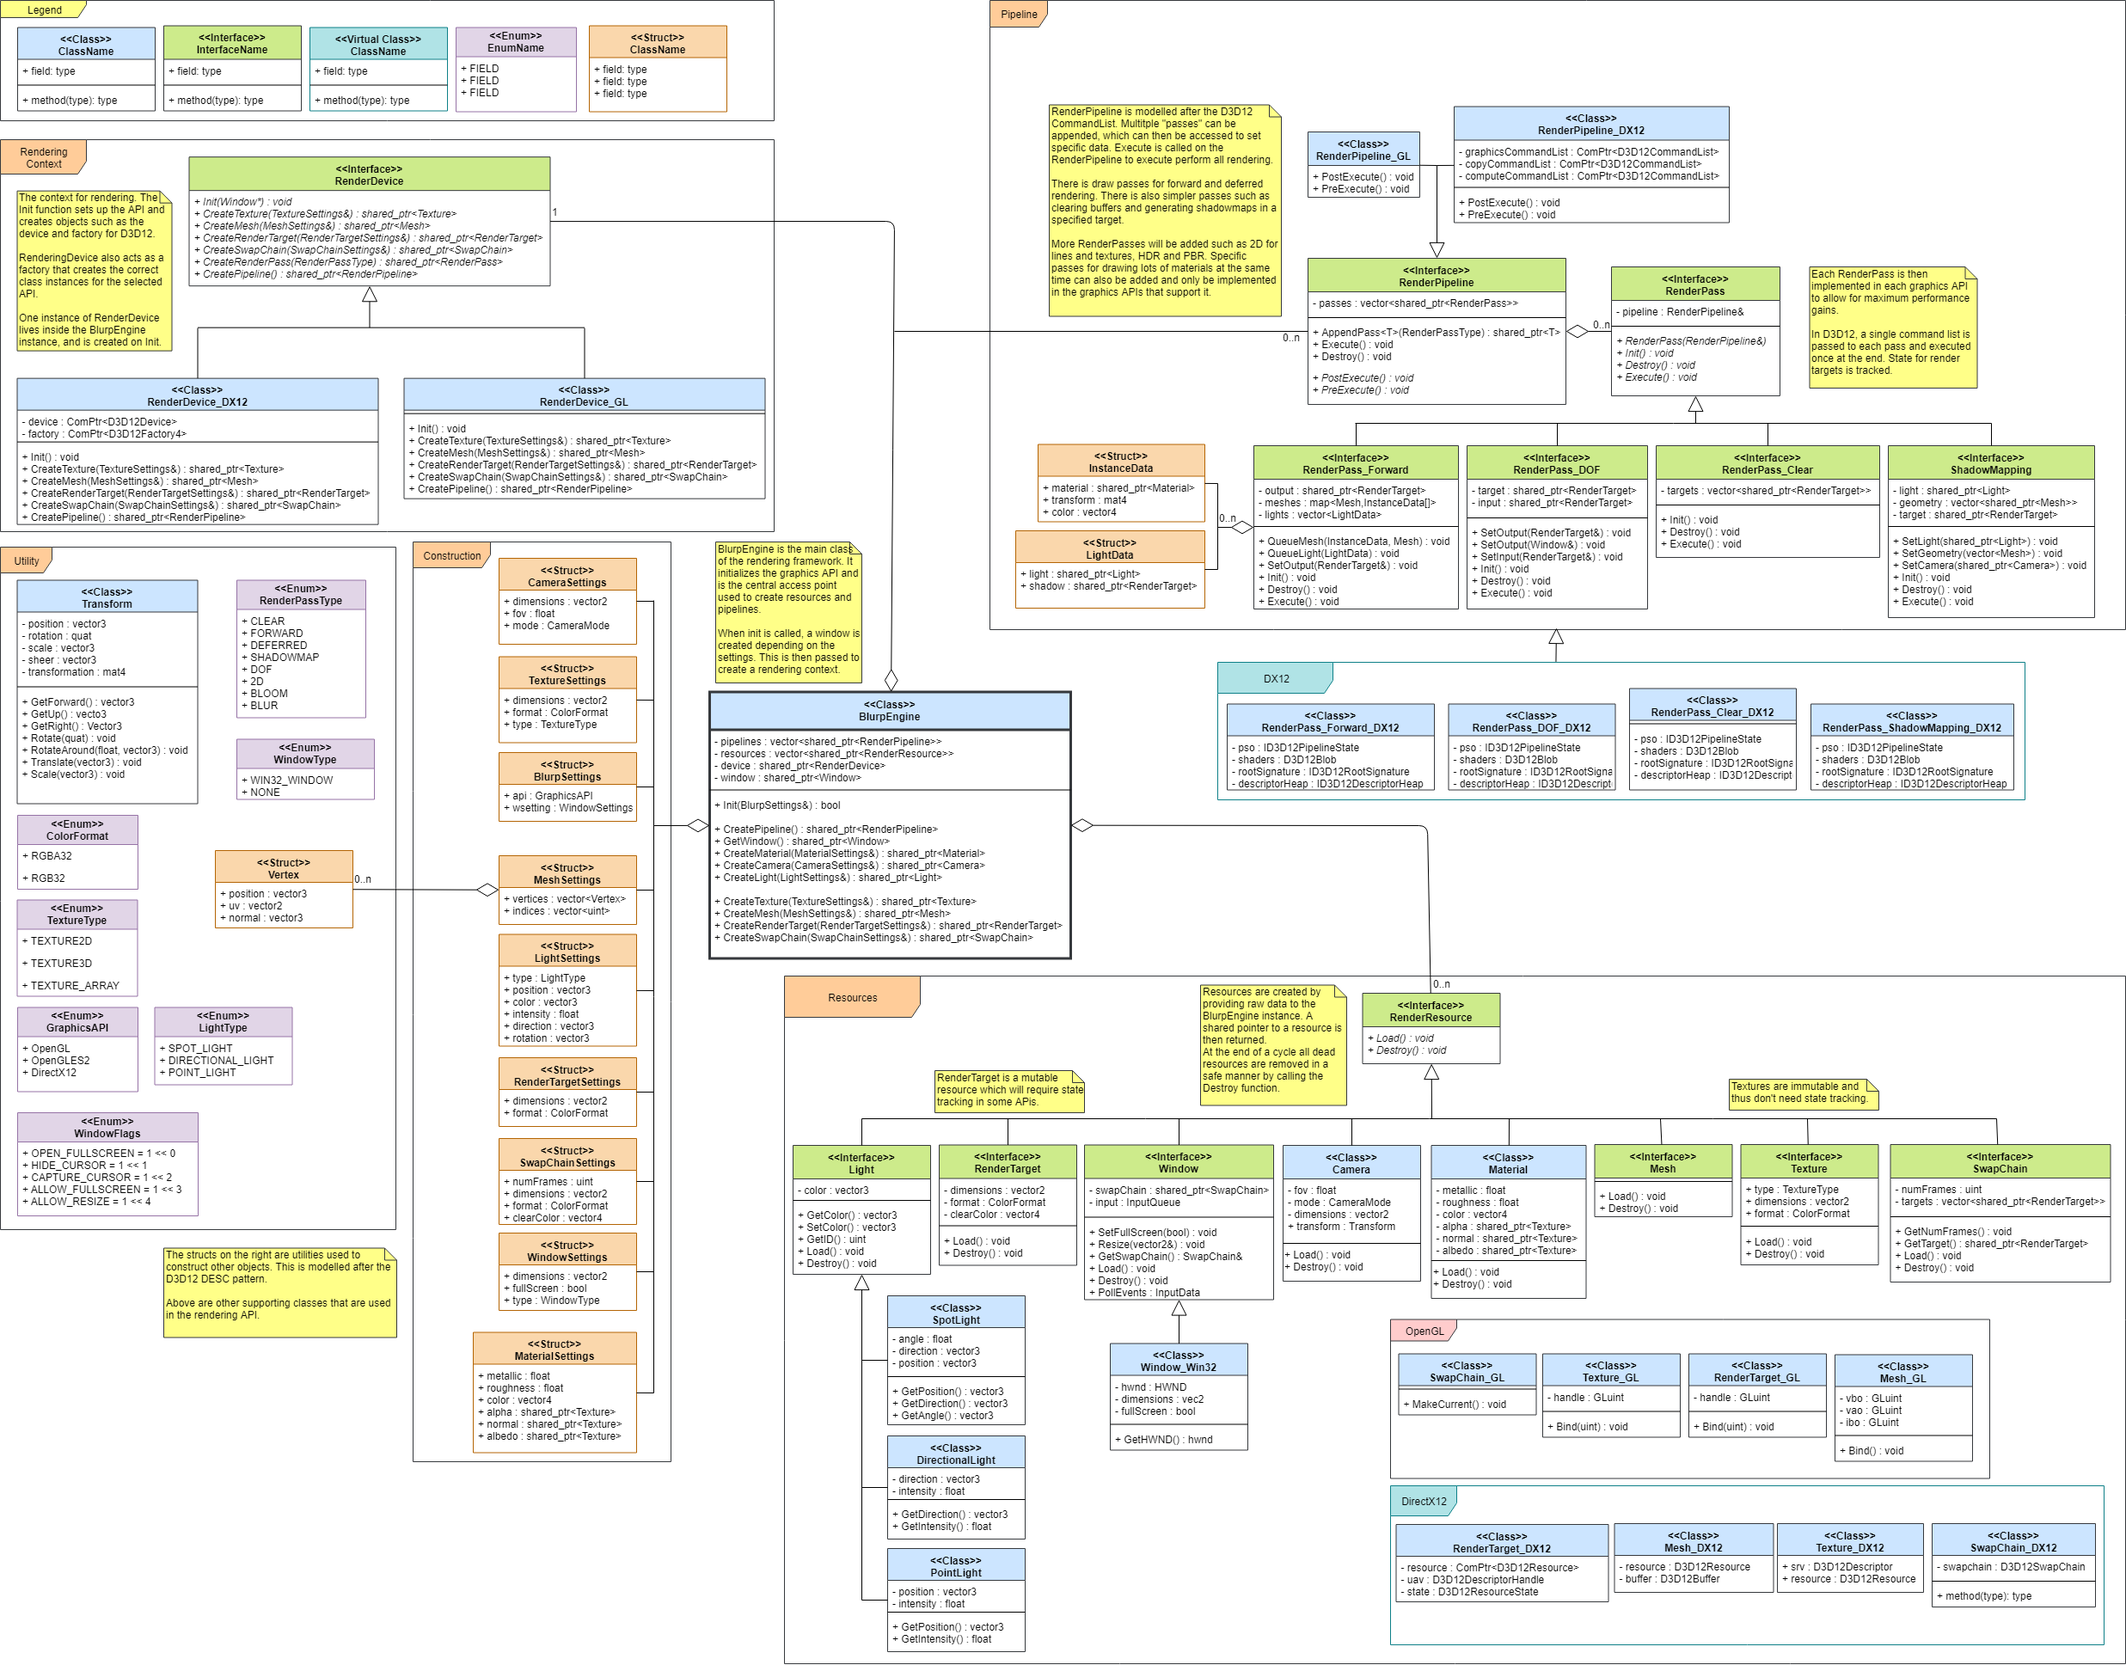
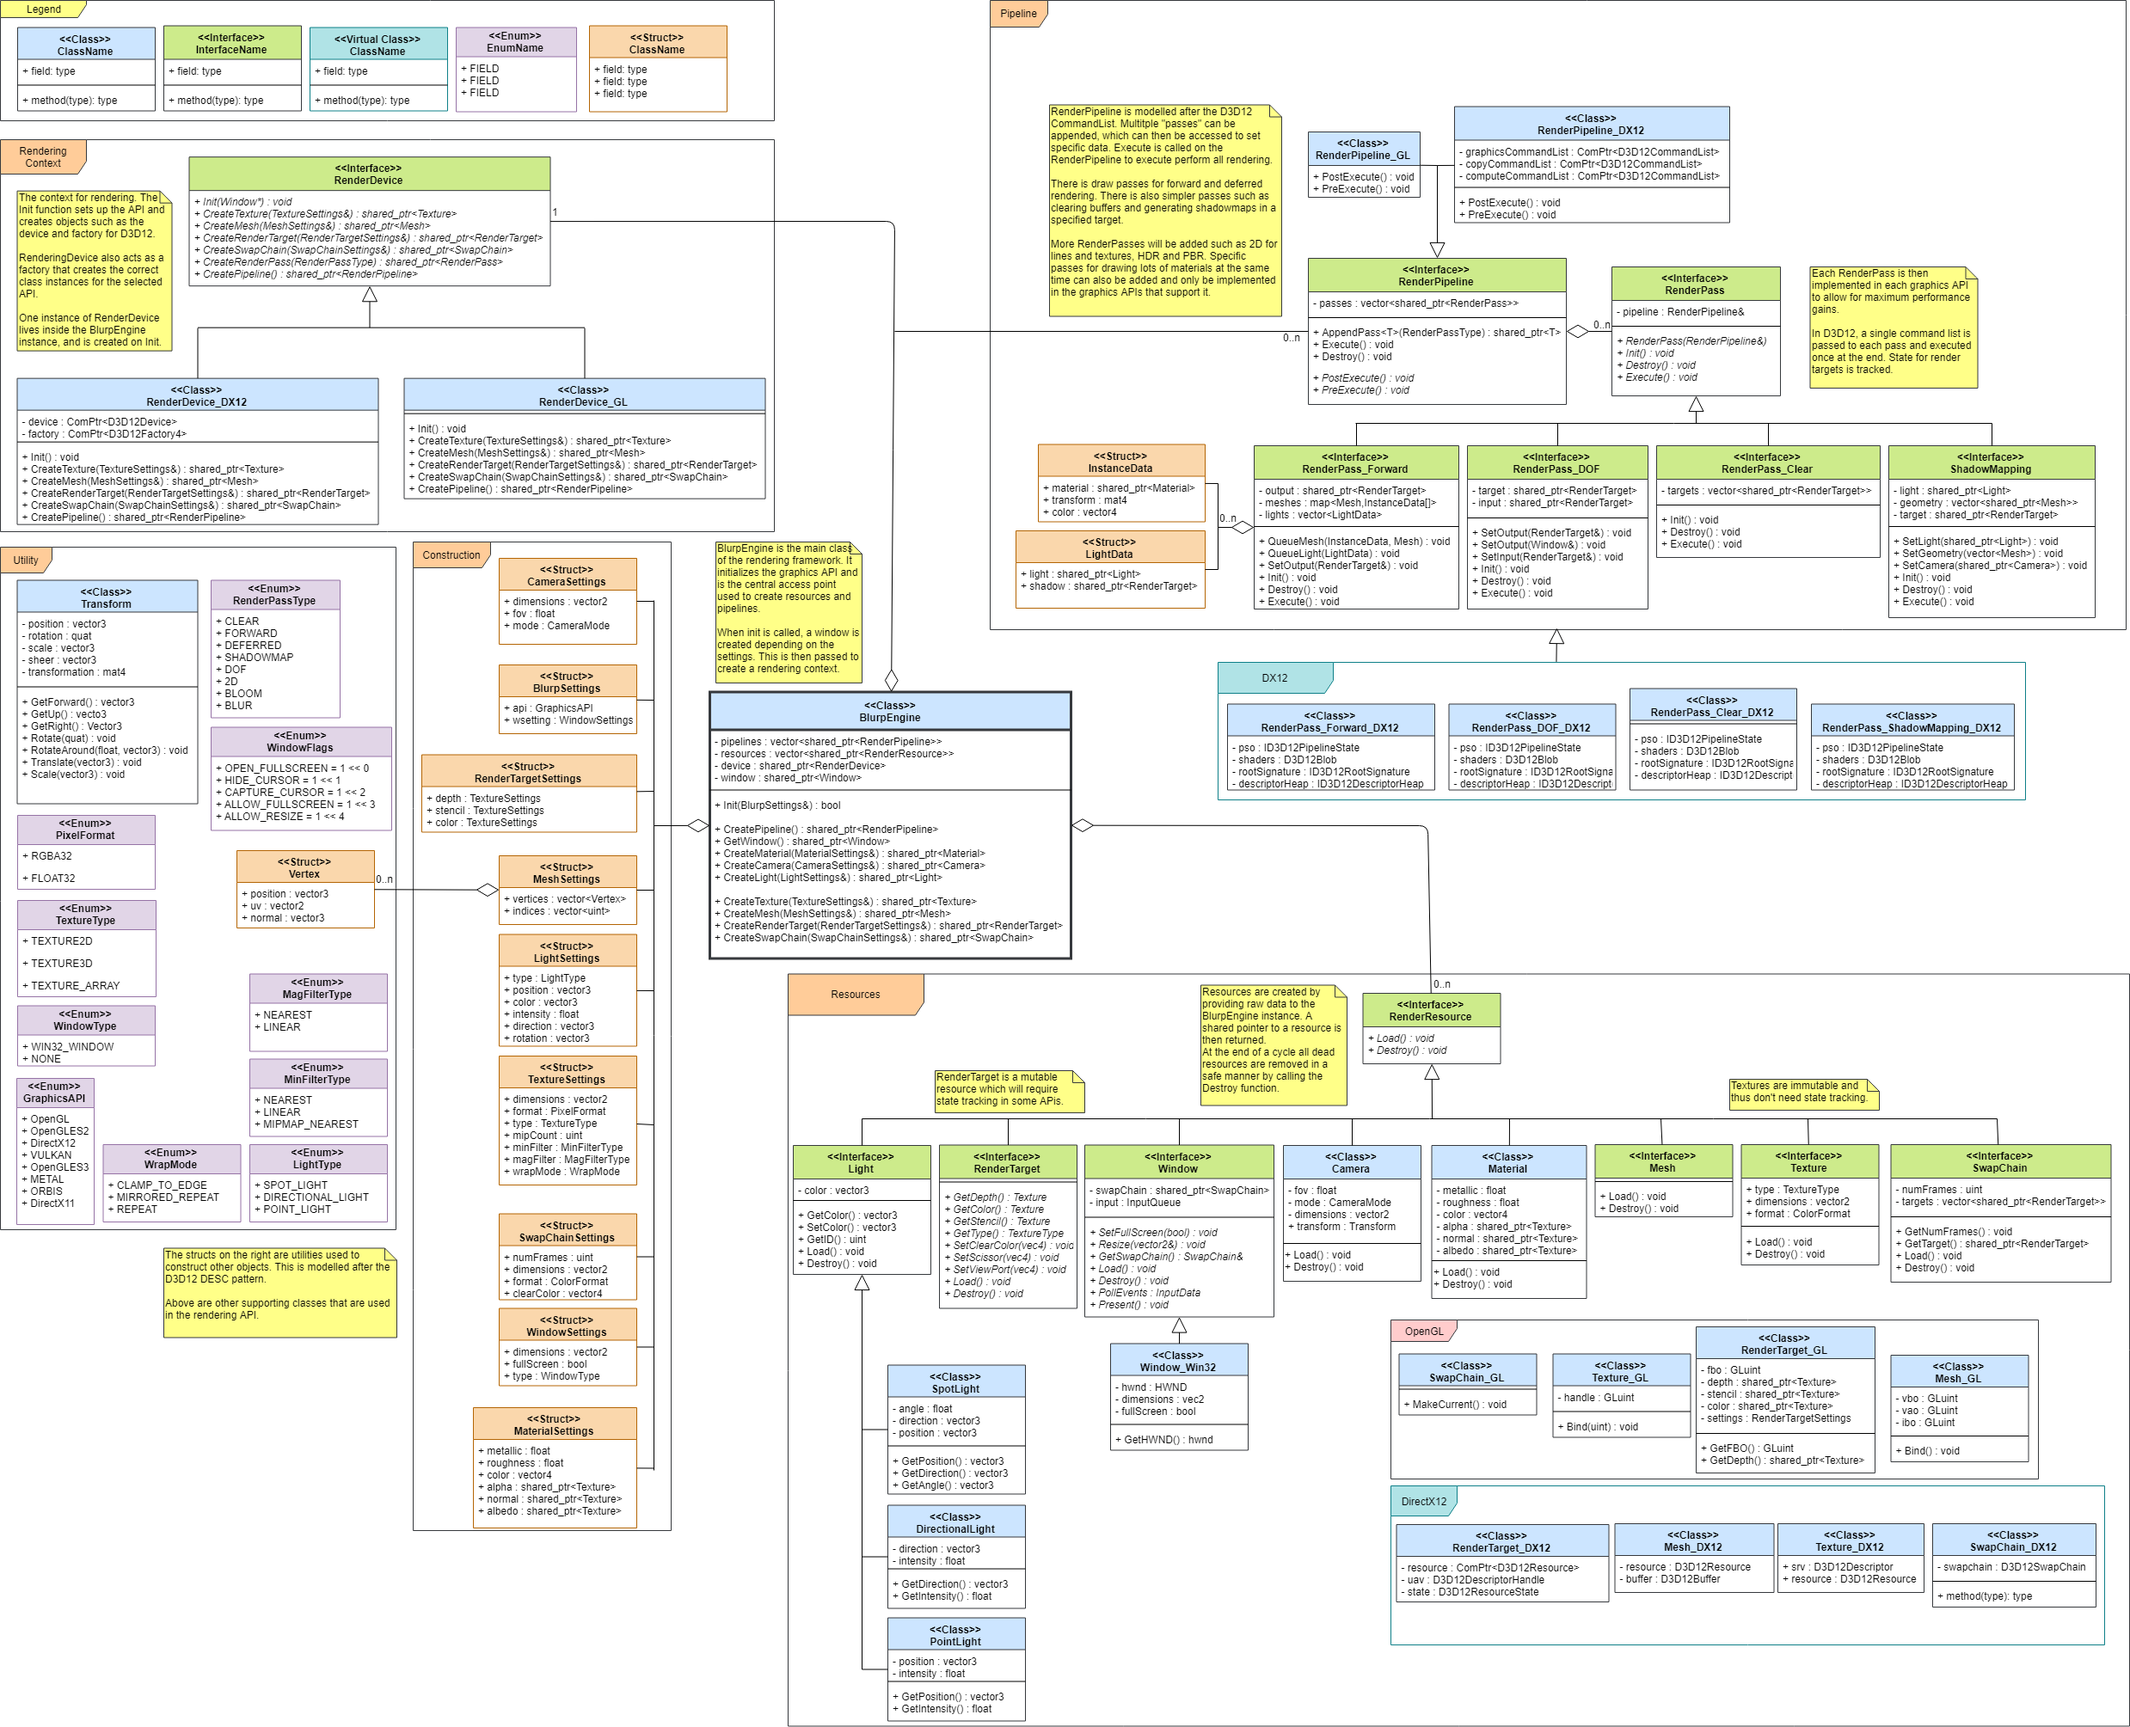
[Add] Further implement some Settings structs and work on RenderTarget design.
[Change]
Update the UML to accurately reflect some changes.

diff --git a/Blurp/include/api/Settings.h b/Blurp/include/api/Settings.h
@@ -14,10 +14,13 @@ namespace blurp
 
     enum class RenderPassType
     {
+        RP_DUMMY,   //TODO remove this is for testing.
         RP_CLEAR,
         RP_FORWARD,
         RP_DEFERRED,
         RP_SHADOWMAP,
+        RP_CUBEMAP,
+        RP_SKYBOX,
         RP_DOF,
         RP_2D,
         RP_BLOOM,
@@ -48,14 +51,51 @@ namespace blurp
 
     enum class TextureType
     {
+        NONE,
         TEXTURE_2D,
-        TEXTURE_3D,
+        TEXTURE_CUBE,
         TEXTURE_ARRAY
+    };
+
+    enum class WrapMode
+    {
+        CLAMP_TO_EDGE,
+        MIRRORED_REPEAT,
+        REPEAT
+    };
+
+    enum class MagFilterType
+    {
+        NEAREST,
+        LINEAR
+    };
+
+    enum class MinFilterType
+    {
+        NEAREST,
+        LINEAR,
+        MIPMAP_NEAREST
     };
 
     enum class PixelFormat
     {
-        RGBA_32,
+        RGBA,
+        RGB,
+        RG,
+        R,
+        DEPTH,
+        DEPTH_STENCIL
+    };
+
+    enum class DataType
+    {
+        FLOAT,
+        INT,
+        UINT,
+        BYTE,
+        UBYTE,
+        SHORT,
+        USHORT
     };
 
     enum class WindowFlags : std::uint16_t
@@ -63,6 +103,7 @@ namespace blurp
         OPEN_FULLSCREEN = 1 << 0,
         HIDE_CURSOR = 1 << 1,
         CAPTURE_CURSOR = 1 << 2,
+        NONE = 1 << 3
     };
 
     /*
@@ -87,15 +128,66 @@ namespace blurp
      * The settings structs.
      */
 
+    /*
+     * TextureSettings describes a texture resource.
+     * It is passed to BlurpEngine to create a Texture resource instance.
+     */
+    struct TextureSettings
+    {
+        TextureSettings()
+        {
+            //Default values
+            dimensions = { 1, 1 };
+            pixelFormat = PixelFormat::RGBA;
+            dataType = DataType::FLOAT;
+            textureType = TextureType::TEXTURE_2D;
+            mipLevels = 0;
+            minFilter = MinFilterType::LINEAR;
+            magFilter = MagFilterType::LINEAR;
+            wrapMode = WrapMode::REPEAT;
+        }
+
+        glm::vec2 dimensions;
+        PixelFormat pixelFormat;
+        DataType dataType;
+        TextureType textureType;
+        std::uint16_t mipLevels;
+        MinFilterType minFilter;
+        MagFilterType magFilter;
+        WrapMode wrapMode;
+
+    };
+
     struct RenderTargetSettings
     {
-        //TODO: Add attachments here. Depth, stencil and color. This corresponds to the shader output.
-        //TODO: Certain RenderPasses will require certain attachments. For now keep it simple and the same always.
-        PixelFormat format;
+        RenderTargetSettings()
+        {
+            //Default values.
+            depthStencilSettings.enable = true;
+            depthStencilSettings.format = PixelFormat::DEPTH_STENCIL;
+        }
+
+        //Color buffer attachment settings.
+        TextureSettings colorSettings;
+
+        /*
+         * Settings related to the depth/stencil buffer.
+         */
+        struct DepthStencilSettings
+        {
+            bool enable;        //Set to false to prevent a depth and/or stencil buffer from being created.
+            PixelFormat format; //Should be DEPTH or DEPTH_STENCIL
+        } depthStencilSettings;
     };
 
     struct SwapChainSettings
     {
+        SwapChainSettings()
+        {
+            //Default values.
+            numBuffers = 2;
+        }
+
         //Buffer format.
         RenderTargetSettings renderTargetSettings;
 
@@ -106,9 +198,17 @@ namespace blurp
 
     struct WindowSettings
     {
+        WindowSettings()
+        {
+            //Default settings.
+            dimensions = { 800, 600 };
+            type = WindowType::WINDOW_WIN32;
+            name = "Blurp Window";
+            flags = WindowFlags::NONE;
+        }
+
         //Window information
         glm::vec2 dimensions;
-        bool fullScreen;
         WindowType type;
         std::string name;
         WindowFlags flags;
@@ -119,34 +219,34 @@ namespace blurp
 
     struct CameraSettings
     {
-        
+        //TODO
     };
-
-    struct TextureSettings
-    {
-        
-    };
-
 
     struct BlurpSettings
     {
+        BlurpSettings()
+        {
+            //Default settings.
+            graphicsAPI = GraphicsAPI::OPENGL;
+        }
+
         WindowSettings windowSettings;
         GraphicsAPI graphicsAPI;
     };
 
     struct MeshSettings
     {
-        
+        //TODO maybe add a static/dynamic thing here? mutable/unmutable? To optimize GPU memory.
     };
 
     struct LightSettings
     {
-        
+        //TODO
     };
 
     struct MaterialSettings
     {
-        
+        //TODO   
     };
     
 }

diff --git a/Blurp/include/api/RenderTarget.h b/Blurp/include/api/RenderTarget.h
@@ -18,7 +18,9 @@ namespace blurp
         //TODO make it so that a render target can only be bound to a single pipeline at the same time.
         //Add some sort of locking mechanism.
         //
-        ////TODO Make render target control the viewport and scissor rects.
+        ////TODO Make render target control the viewport and scissor rects. Also clear color.
+        //TODO setting for DepthBuffer and StencilBuffer.
+        //TODO attachments? Attachment count? Then in the renderpasses the attachment count is taken into account?
         
     protected:
         RenderTargetSettings m_Settings;
